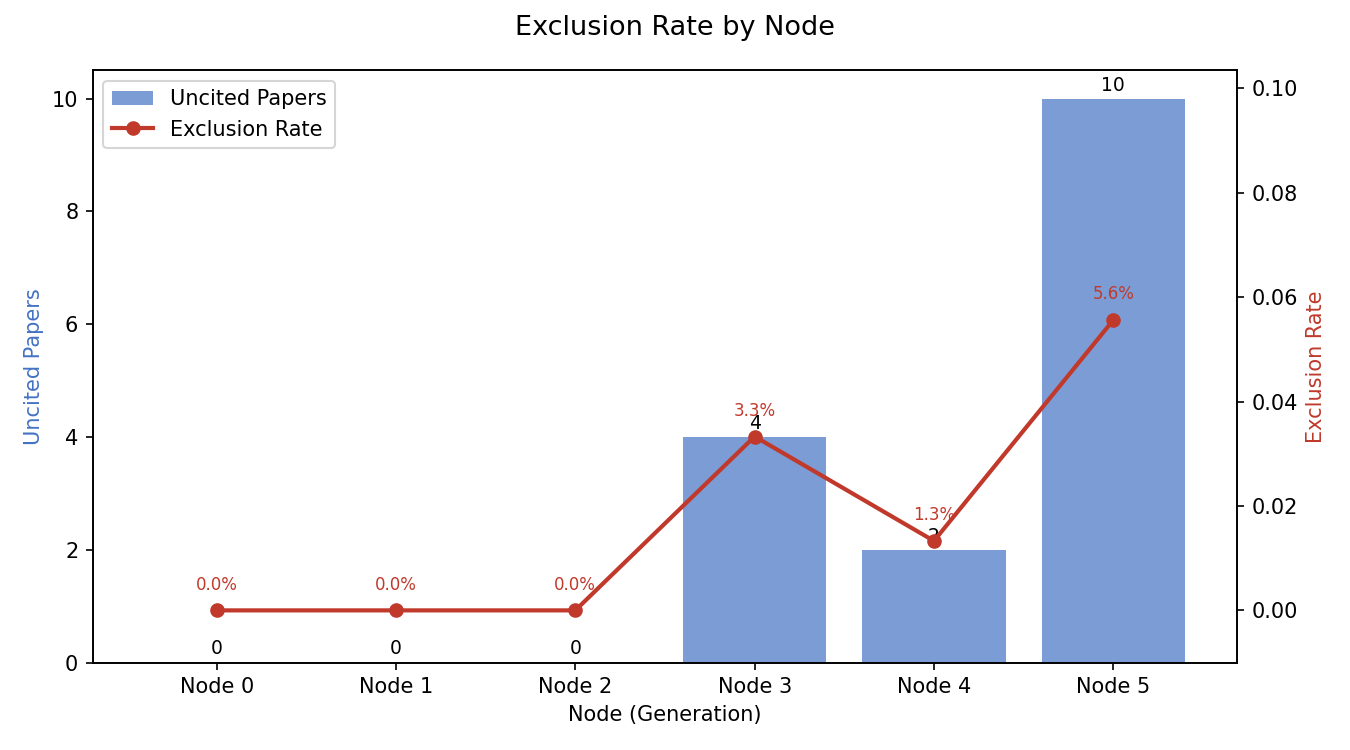
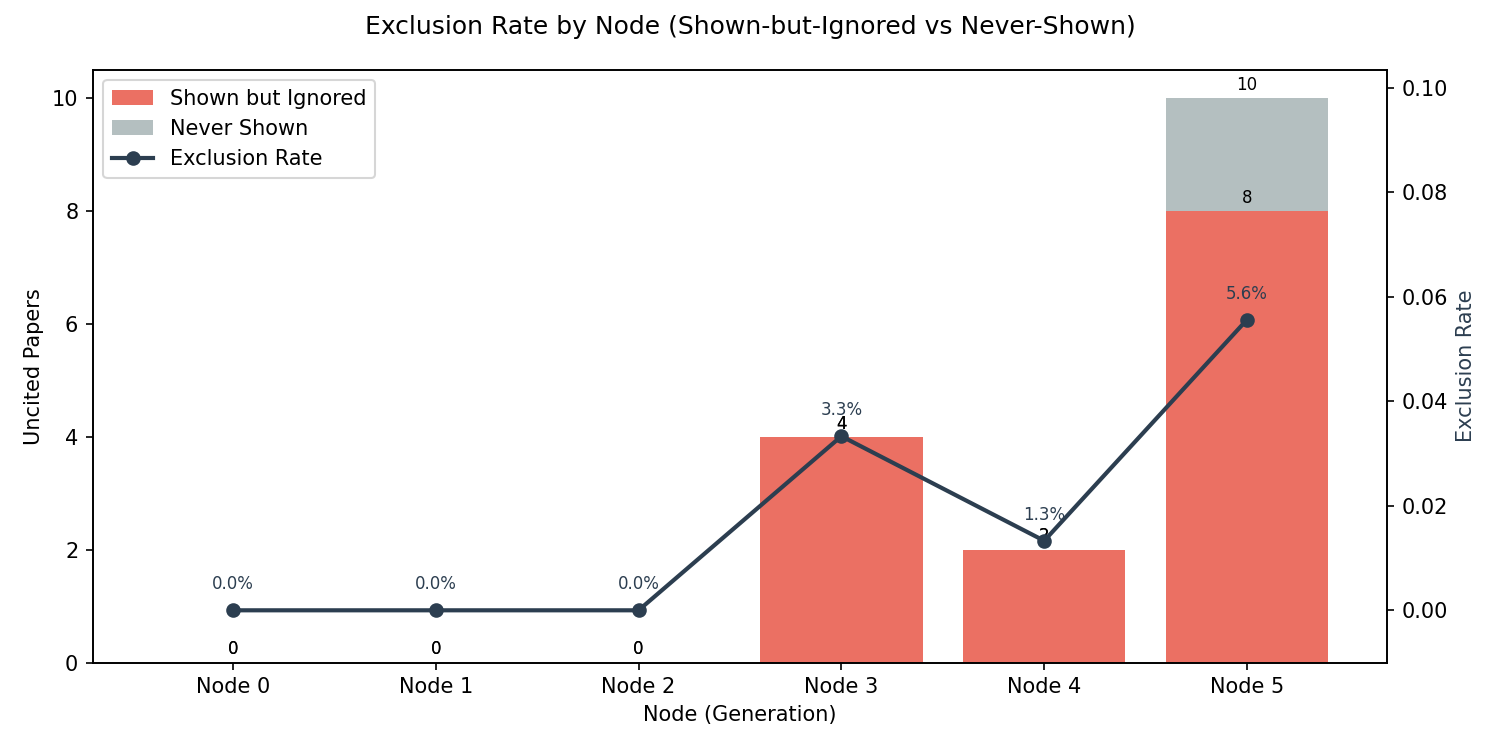
updated exclusion_rate

diff --git a/alpha_0.2.0/metric_scripts/analysis_figures.py b/alpha_0.2.0/metric_scripts/analysis_figures.py
@@ -190,20 +190,29 @@ fig.tight_layout()
 fig.savefig(os.path.join(OUTPUT_DIR, "avg_citation_exposure_rate_by_node.png"), dpi=150)
 print("Saved avg_citation_exposure_rate_by_node.png")
 
-# ── 4. Exclusion Rate By Node ────────────────────────────────────────────────
+# ── 4. Exclusion Rate By Node (Shown-but-Ignored vs Never-Shown) ─────────────
 
 excl_results = []
 for s in gen_stats:
+    node = s["node"]
     available = s["available_papers"]
-    cited = s["unique_papers_cited"]
-    uncited = available - cited
-    rate = round(uncited / available, 4) if available > 0 else 0.0
+    entries = load_exposure(node)
+
+    cited = sum(1 for e in entries if e["citations"] > 0)
+    shown_ignored = sum(1 for e in entries if e["exposures"] > 0 and e["citations"] == 0)
+    never_shown = available - len(entries)
+    uncited = shown_ignored + never_shown
+
     excl_results.append({
-        "node": s["node"],
+        "node": node,
         "available": available,
         "cited": cited,
+        "shown_ignored": shown_ignored,
+        "never_shown": never_shown,
         "uncited": uncited,
-        "exclusion_rate": rate,
+        "exclusion_rate": round(uncited / available, 4) if available > 0 else 0.0,
+        "shown_ignored_rate": round(shown_ignored / available, 4) if available > 0 else 0.0,
+        "never_shown_rate": round(never_shown / available, 4) if available > 0 else 0.0,
     })
 
 with open(os.path.join(OUTPUT_DIR, "exclusion_rate_by_node.jsonl"), "w") as f:
@@ -212,30 +221,35 @@ with open(os.path.join(OUTPUT_DIR, "exclusion_rate_by_node.jsonl"), "w") as f:
 print("Saved exclusion_rate_by_node.jsonl")
 
 nodes = [r["node"] for r in excl_results]
+shown_ignored = [r["shown_ignored"] for r in excl_results]
+never_shown = [r["never_shown"] for r in excl_results]
 excl_rates = [r["exclusion_rate"] for r in excl_results]
-uncited_counts = [r["uncited"] for r in excl_results]
 
-fig, ax1 = plt.subplots(figsize=(9, 5))
-bars = ax1.bar(nodes, uncited_counts, color="#4472C4", alpha=0.7, label="Uncited Papers")
-ax1.bar_label(bars, padding=2, fontsize=9)
+fig, ax1 = plt.subplots(figsize=(10, 5))
+x = np.arange(len(nodes))
+b1 = ax1.bar(x, shown_ignored, color="#E74C3C", alpha=0.8, label="Shown but Ignored")
+b2 = ax1.bar(x, never_shown, bottom=shown_ignored, color="#95A5A6", alpha=0.7, label="Never Shown")
+ax1.bar_label(b1, padding=2, fontsize=8)
+ax1.bar_label(b2, padding=2, fontsize=8)
 ax1.set_xlabel("Node (Generation)")
-ax1.set_ylabel("Uncited Papers", color="#4472C4")
-ax1.set_xticks(nodes)
+ax1.set_ylabel("Uncited Papers")
+ax1.set_xticks(x)
 ax1.set_xticklabels([f"Node {n}" for n in nodes])
 
 ax2 = ax1.twinx()
-ax2.plot(nodes, excl_rates, color="#C0392B", marker="o", linewidth=2, label="Exclusion Rate")
+ax2.plot(x, excl_rates, color="#2C3E50", marker="o", linewidth=2, label="Exclusion Rate")
 for i, rate in enumerate(excl_rates):
-    ax2.annotate(f"{rate:.1%}", (nodes[i], rate), textcoords="offset points",
-                 xytext=(0, 10), ha="center", fontsize=8, color="#C0392B")
-ax2.set_ylabel("Exclusion Rate", color="#C0392B")
-ax2.set_ylim(-0.01, max(excl_rates) * 1.5 + 0.02)
+    ax2.annotate(f"{rate:.1%}", (x[i], rate), textcoords="offset points",
+                 xytext=(0, 10), ha="center", fontsize=8, color="#2C3E50")
+ax2.set_ylabel("Exclusion Rate", color="#2C3E50")
+max_rate = max(excl_rates) if max(excl_rates) > 0 else 0.05
+ax2.set_ylim(-0.01, max_rate * 1.5 + 0.02)
 
 lines1, labels1 = ax1.get_legend_handles_labels()
 lines2, labels2 = ax2.get_legend_handles_labels()
 ax1.legend(lines1 + lines2, labels1 + labels2, loc="upper left")
 
-fig.suptitle("Exclusion Rate by Node", fontsize=13)
+fig.suptitle("Exclusion Rate by Node (Shown-but-Ignored vs Never-Shown)", fontsize=12)
 fig.tight_layout()
 fig.savefig(os.path.join(OUTPUT_DIR, "exclusion_rate_by_node.png"), dpi=150)
 print("Saved exclusion_rate_by_node.png")
